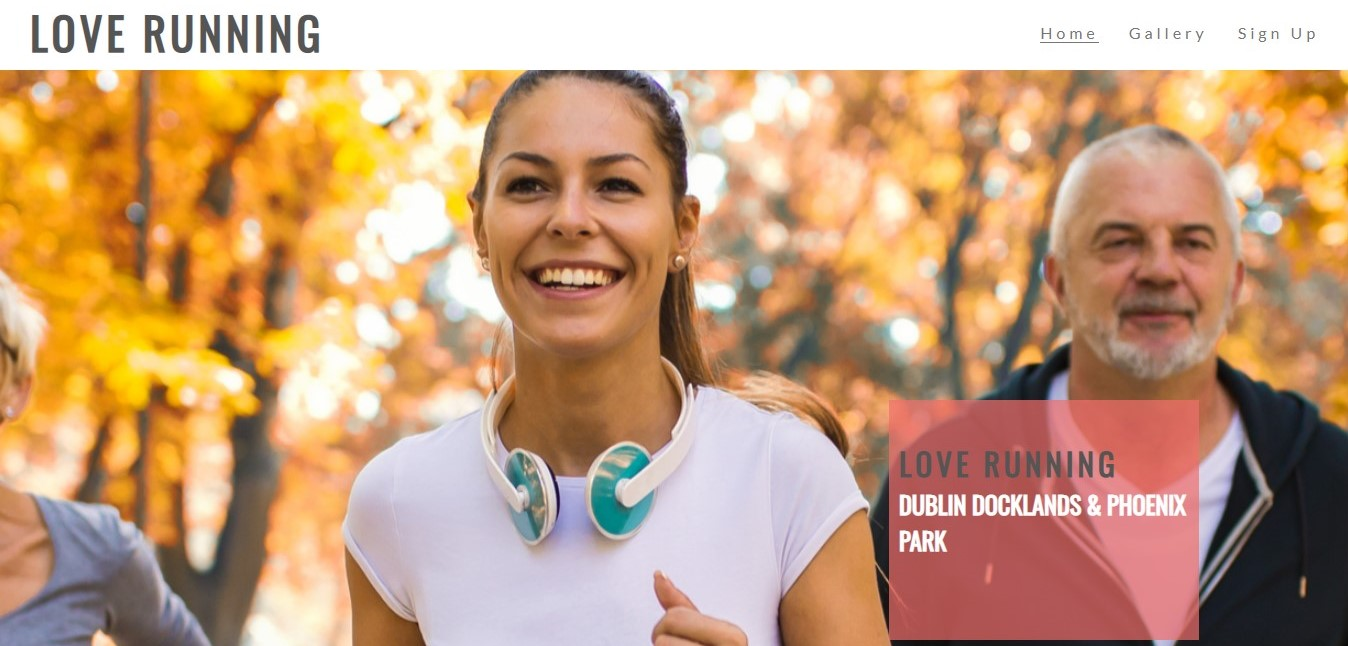
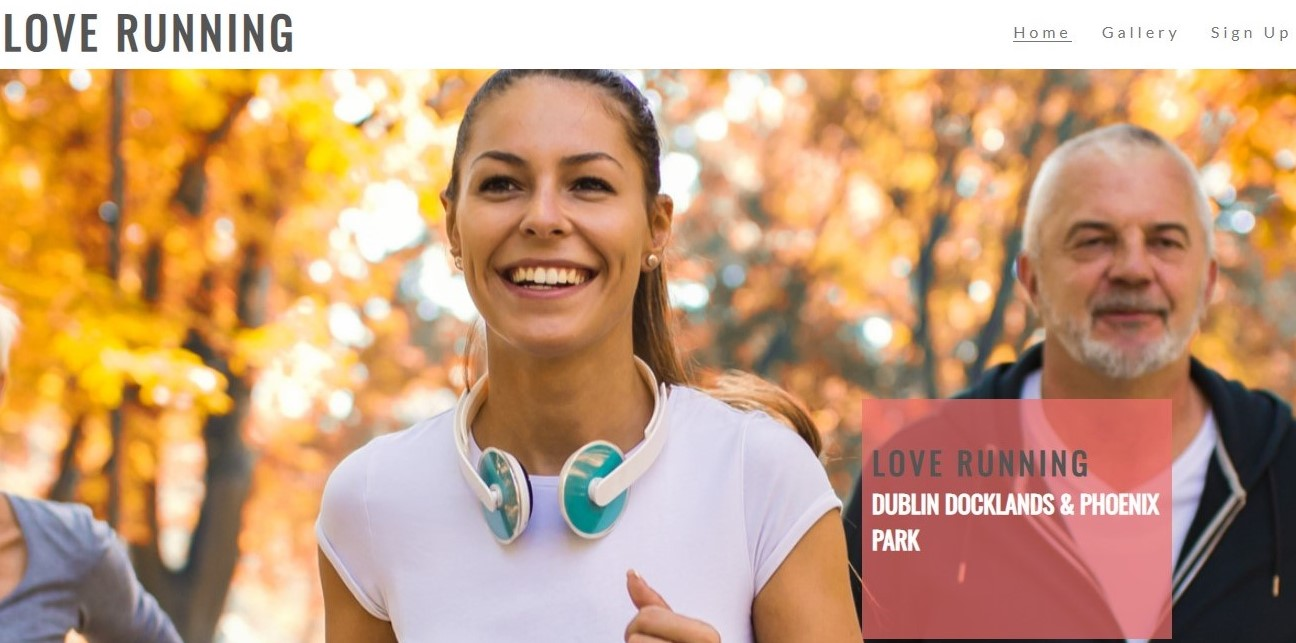
Added rest of project descriptions and correct image issue

diff --git a/portfolio.html b/portfolio.html
@@ -56,31 +56,52 @@
         </div>
     </header>
 <!----------------------Main Body------------------------->
-    <section>
-        <div class="container-fluid">
-        <h2 class="portfolio">My Portfolio</h2>
-            <div class="row">
-                 <div class="col-12 col-lg-6">   
-                    <img src="assets/images/loverunning.jpg" alt="Love Running homepage" class="loverunning">
-                </div>
-                <div class="col-12 col-lg-6">
-                    <h3 class="project-title">Love Running</h3>
-                    <p class="project-desc">
-                    Love Running was my first walkthrough project I created with Code Institute. It was created on Repl.it. 
-                    The website is made up of a home page which gives the details for the weeks running sessions, a gallery page which shows images of the group running sessions and a sign up page which allows people to join the running club.
-                    </p>
-                </div>
+<section>
+		<div class="container">
+			<h2 class="portfolio">My Portfolio</h2>
+				<div class="row project">
+					<div class="col-12 col-lg-6">
+                        <img src="assets/images/loverunning.jpg" alt="Love Running Homepage" class="loverunning">
+                    </div>
+					<div class="col-12 col-lg-6">
+					    <h4 class="project-title">Love Running</h4>
+							<p class="project-desc">
+								Love Running was my first walkthrough project created using Repl.it. It has a home page which shows the weeks running activities, 
+                                a gallery page which shows pictures of the group running and a form page which allows users to join the group. 
+							</p>
 
-            </div>
+					</div>
+				</div>
+
+            	<div class="row project">
+                    <div class="col-12 col-lg-6">   
+                        <img src="assets/images/bootstrap.jpg" alt="Whiskey Drop Homepage" class="whiskeydrop">
+                    </div>
+			        <div class="col-12 col-lg-6">
+					    <h4 class="project-title">Whiskey Drop</h4>
+						    <p class="project-desc">
+                                Whiskey Drop was my second walkthrough project I created. The basic design of the website was created using bootstrap and 
+                                styled after to make it look more appealing. The site allows users to subscribe to recieve a bottle of whiskey every single 
+                                month. 
+						    </p>
+			        </div>
+            	</div>
 
 
+            	<div class="row project">
+                    <div class="col-12 col-lg-6">   
+                  <img src="assets/images/milestoneproject.jpg" alt="MSP 1 Home Page" class="msp1">
+                    </div>
+			        <div class="col-12 col-lg-6">
+					    <h4 class="project-title">Milestone Project 1</h4>
+						    <p class="project-desc">
+                                This is my first assesment for Code Institute. It is an online CV which allows people to get to know me aswell as view my 
+                                current portfolio. The site consists of 4 pages and a link to download my CV. There is a contact page if people want to get in 
+                                touch or collaborate on any projects. 
+						    </p>
+			        </div>                       
 
-             <div class="col-12 col-lg-6">   
-                  <img src="assets/images/bootstrap.jpg" alt="Love Running homepage" class="whiskeydrop">
-            </div>
-             <div class="col-12 col-lg-6">   
-                  <img src="assets/images/milestoneproject.jpg" alt="Love Running homepage" class="msp1">
-            </div>
+            	</div>
 
             
         </div>      

diff --git a/assets/css/style.css b/assets/css/style.css
@@ -129,7 +129,7 @@ a.nav-pagelink  {
 }
 
 .loverunning {
-    width: 90%;
+    width: 100%;
     height: auto;
     padding-bottom: 50px;
     padding-top: 10px;
@@ -137,7 +137,7 @@ a.nav-pagelink  {
 }
 
 .whiskeydrop {
-    width: 90%;
+    width: 100%;
     height: auto;
     margin-top: 30px;
     padding-bottom: 50px;
@@ -145,7 +145,7 @@ a.nav-pagelink  {
 }
 
 .msp1 {
-    width: 90%;
+    width: 100%;
     height: auto;
     margin-top: 30px;
     padding-bottom: 50px;  
@@ -161,7 +161,8 @@ a.nav-pagelink  {
 
 .project-desc {
     text-align: left;
-    color: #000000
+    color: #000000;
+    font-size: 18px;
 }
 
 @media screen and (max-width: 900px) {
